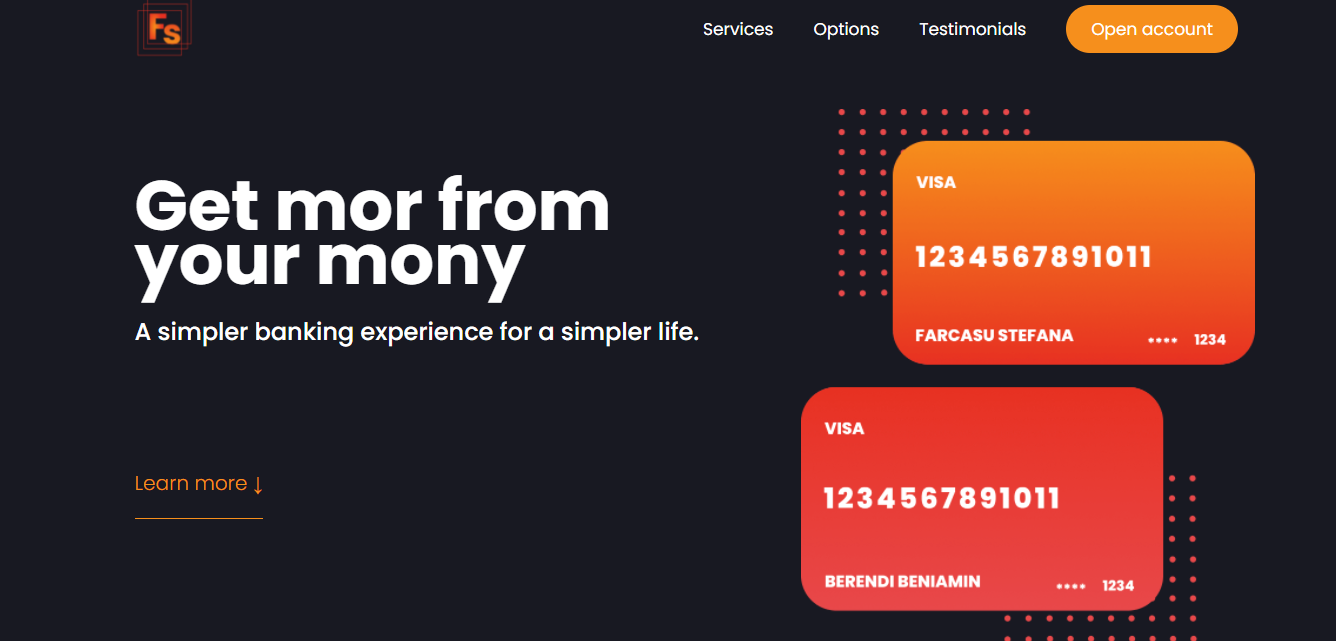
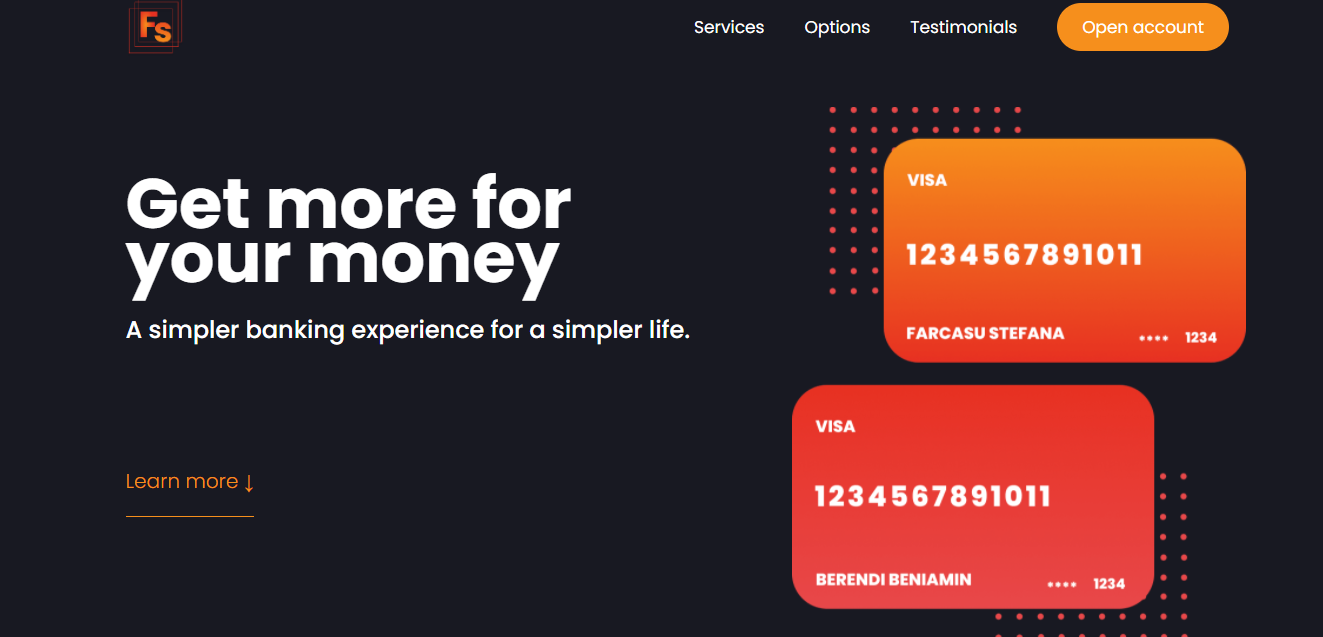
ok

diff --git a/index.html b/index.html
@@ -48,8 +48,8 @@
 
       <div class="header__title">
         <h1>
-            Get mor from 
-            your mony
+          Get more for
+           your money
         </h1>
       <br>
         <h4>A simpler banking experience for a simpler life.</h4>
@@ -167,7 +167,7 @@
             </svg>
           </div>
           <h5 class="Options__header">
-            Tranfser money to anyone, instantly! No fees, no BS.
+            Transfer money to anyone, instantly! No fees, no BS.
           </h5>
           <p>
             Lorem ipsum dolor sit amet, consectetur adipisicing elit, sed do
@@ -217,7 +217,7 @@
         
         <h2 class="section__description">Not sure yet?</h2>
         <h3 class="section__header">
-          Millions of Bankists are already making their lifes simpler.
+          Millions of Bankists are already making their lives simpler.
         </h3>
       </div>
 
@@ -298,12 +298,7 @@
             </address>
           </div>
         </div>
-        <!--
-         <div class="slide"><img src="img/img-1.jpg" alt="Photo 1" /></div>
-        <div class="slide"><img src="img/img-2.jpg" alt="Photo 2" /></div>
-        <div class="slide"><img src="img/img-3.jpg" alt="Photo 3" /></div>
-        <div class="slide"><img src="img/img-4.jpg" alt="Photo 4" /></div> 
-        -->
+       
         <button class="slider__btn slider__btn--left"><i class="fas fa-arrow-left"></i></button>
         <button class="slider__btn slider__btn--right"><i class="fas fa-arrow-right"></i></button>
         <div class="dots"></div>
